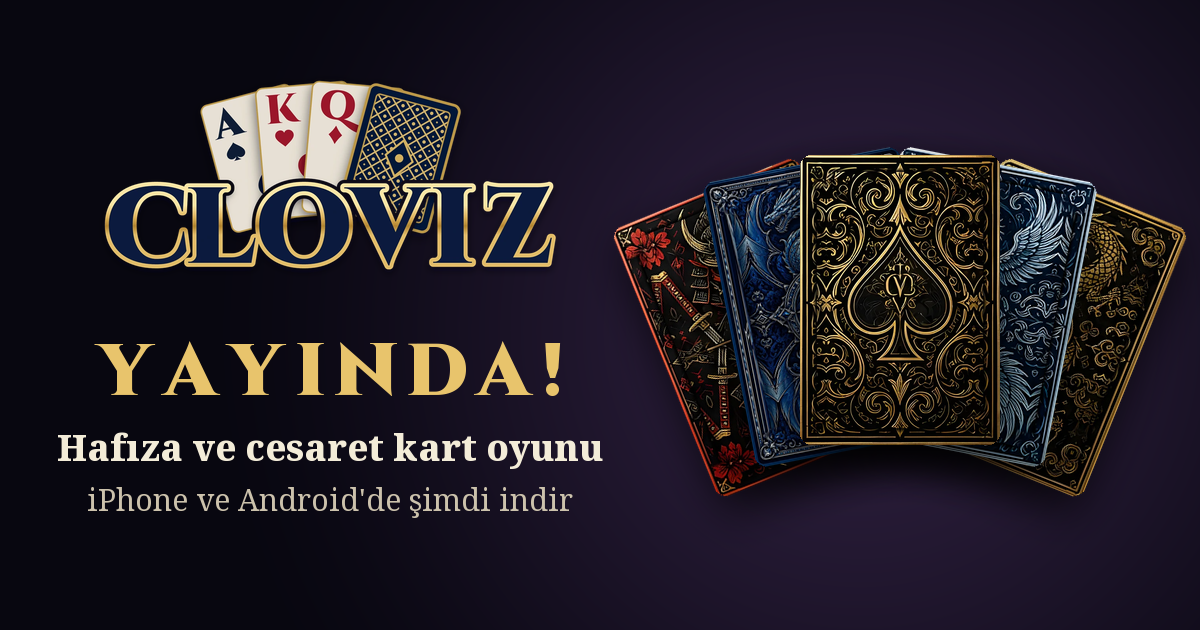
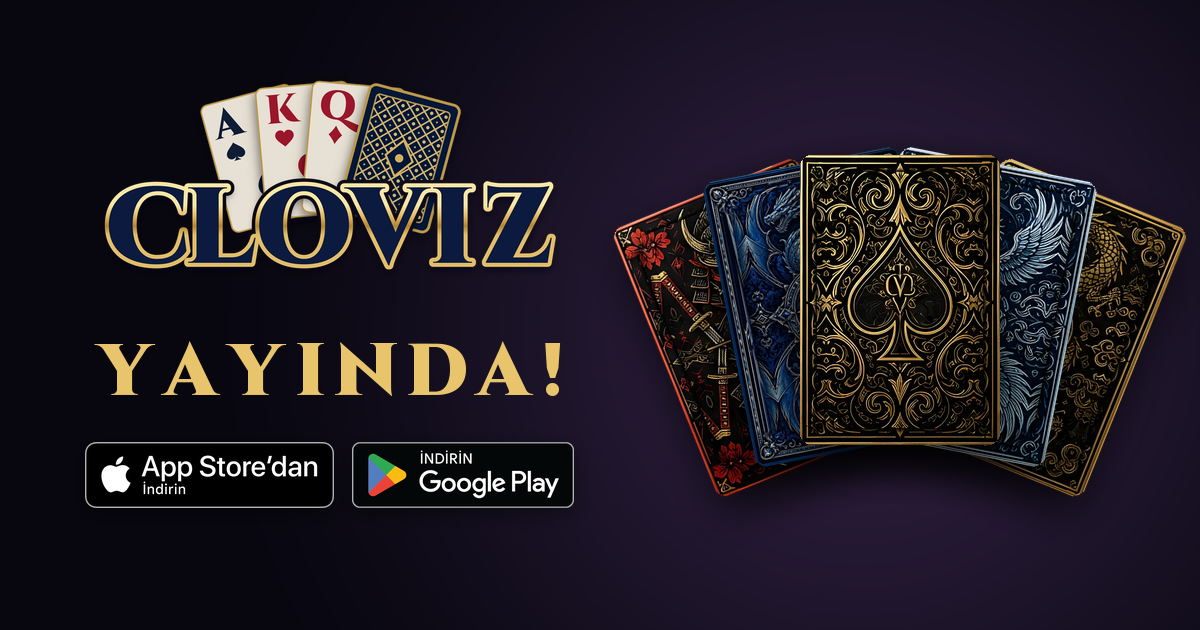
Official App Store and Google Play badges; drop the subtitle lines

Changed region(s): [[0.0308, 0.6937, 0.5242, 0.8143]]

diff --git a/index.html b/index.html
@@ -3,14 +3,14 @@
 <head>
 <meta charset="utf-8">
 <meta name="viewport" content="width=device-width, initial-scale=1">
-<title>Cloviz · Hafıza ve cesaret kart oyunu</title>
-<meta name="description" content="Kartlarına bak, aklında tut, KABO de! Cloviz şimdi iPhone ve Android'de.">
+<title>Cloviz</title>
+<meta name="description" content="Kartlarına bak, aklında tut, KABO de!">
 
 <!-- Link önizlemesi (WhatsApp, Instagram, X, Telegram).
      SITE_URL'yi sayfayı yayınladığın adresle değiştir, ör. https://kullaniciadi.github.io/cloviz/ -->
 <meta property="og:type" content="website">
 <meta property="og:title" content="Cloviz yayında!">
-<meta property="og:description" content="Hafıza ve cesaret kart oyunu. iPhone ve Android'de şimdi indir.">
+<meta property="og:description" content="Kartlarına bak, aklında tut, KABO de!">
 <meta property="og:image" content="https://burakfevzikar53.github.io/cloviz/link-onizleme-1200x630.png">
 <meta property="og:image:width" content="1200">
 <meta property="og:image:height" content="630">
@@ -28,10 +28,11 @@
   h1 { font-size: 26px; margin: 20px 0 6px; color: #e8c46c; letter-spacing: 2px; }
   p { margin: 0 0 24px; color: #ccc2ac; }
   .btns { display: flex; gap: 12px; justify-content: center; flex-wrap: wrap; }
-  a.btn { display: block; min-width: 200px; padding: 12px 20px; border-radius: 14px; background: #000;
-          border: 1px solid #999; color: #fff; text-decoration: none; font-family: system-ui, sans-serif; }
-  a.btn small { display: block; font-size: 12px; color: #ccc; }
-  a.btn b { font-size: 20px; }
+  .btns { align-items: center; }
+  .btns a { display: block; line-height: 0; }
+  /* Official badges: same visible height (Google's PNG carries its own margin) */
+  .btns img.as { height: 54px; }
+  .btns img.gp { height: 80px; margin: -13px 0; }
 </style>
 </head>
 <body>
@@ -40,8 +41,8 @@
   <h1>CLOVIZ YAYINDA!</h1>
   <p>Kartlarına bak, aklında tut, KABO de!</p>
   <div class="btns">
-    <a class="btn" id="ios" href="https://apps.apple.com/tr/app/cloviz/id6789584692?l=tr"><small>iPhone için</small><b>App Store</b></a>
-    <a class="btn" id="android" href="https://play.google.com/store/apps/details?id=com.bloomgamesofficial.cloviz"><small>Android için</small><b>Google Play</b></a>
+    <a id="ios" href="https://apps.apple.com/tr/app/cloviz/id6789584692?l=tr"><img class="as" src="app-store-badge-tr.svg" alt="App Store'dan İndirin"></a>
+    <a id="android" href="https://play.google.com/store/apps/details?id=com.bloomgamesofficial.cloviz"><img class="gp" src="google-play-badge-tr.png" alt="Google Play'den Alın"></a>
   </div>
 </main>
 <script>
